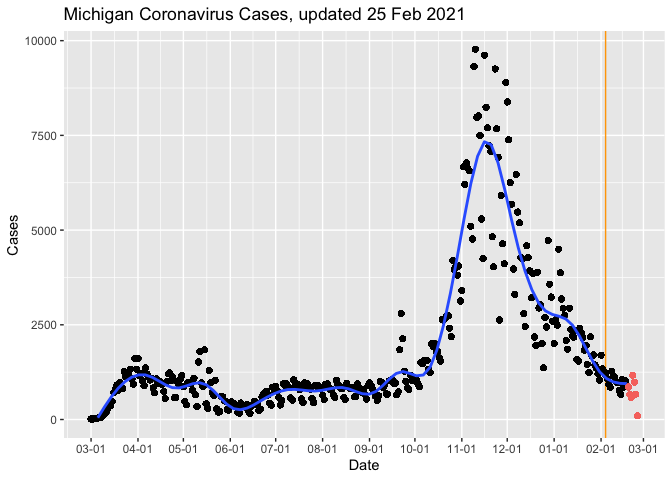
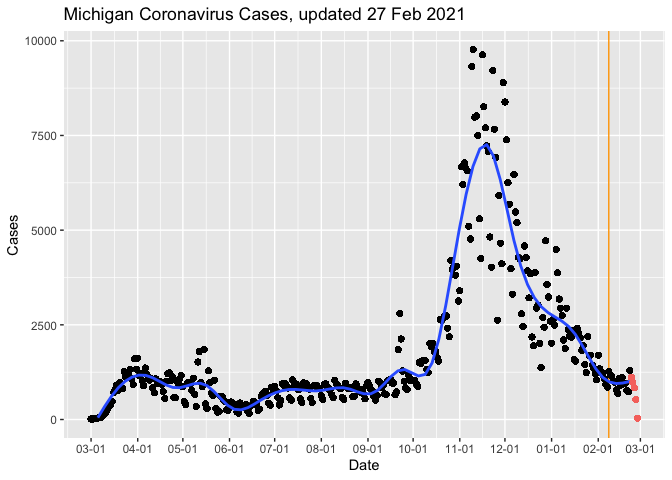
Mar-01 2021 08:56 update

diff --git a/MiCorona.md b/MiCorona.md
@@ -1,7 +1,7 @@
 Michigan COVID Data
 ================
 Adam D. DenHaan
-Feb 25, 2021
+Mar 01, 2021
 
 ``` python
 from urllib.request import urlopen
@@ -34,7 +34,7 @@ mi_data = readxl::read_excel("data/covid.xlsx")
 glimpse(mi_data)
 ```
 
-    ## Rows: 63,723
+    ## Rows: 64,073
     ## Columns: 8
     ## $ COUNTY            <chr> "Alcona", "Alcona", "Alcona", "Alcona", "Alcona", "A…
     ## $ Date              <dttm> 2020-03-01, 2020-03-02, 2020-03-03, 2020-03-04, 202…
@@ -43,7 +43,7 @@ glimpse(mi_data)
     ## $ Deaths            <dbl> 0, 0, 0, 0, 0, 0, 0, 0, 0, 0, 0, 0, 0, 0, 0, 0, 0, 0…
     ## $ Cases.Cumulative  <dbl> 0, 0, 0, 0, 0, 0, 0, 0, 0, 0, 0, 0, 0, 0, 0, 0, 0, 0…
     ## $ Deaths.Cumulative <dbl> 0, 0, 0, 0, 0, 0, 0, 0, 0, 0, 0, 0, 0, 0, 0, 0, 0, 0…
-    ## $ Updated           <dttm> 2021-02-25 13:03:58, 2021-02-25 13:03:58, 2021-02-2…
+    ## $ Updated           <dttm> 2021-02-27 13:58:25, 2021-02-27 13:58:25, 2021-02-2…
 
 Wrangle Data:
 
@@ -97,7 +97,7 @@ mi_cases_by_day_exclusive %>%
 
 ![](MiCorona_files/figure-gfm/viz-1.png)<!-- -->
 
-Note that the last 7 days of data have been colored red on the graph, as
+Note that the last 5 days of data have been colored red on the graph, as
 they frequently change as more information becomes available. Vertical
 orange line at 3 weeks in the past (as hospitalizations usually follow
 cases by three weeks).
